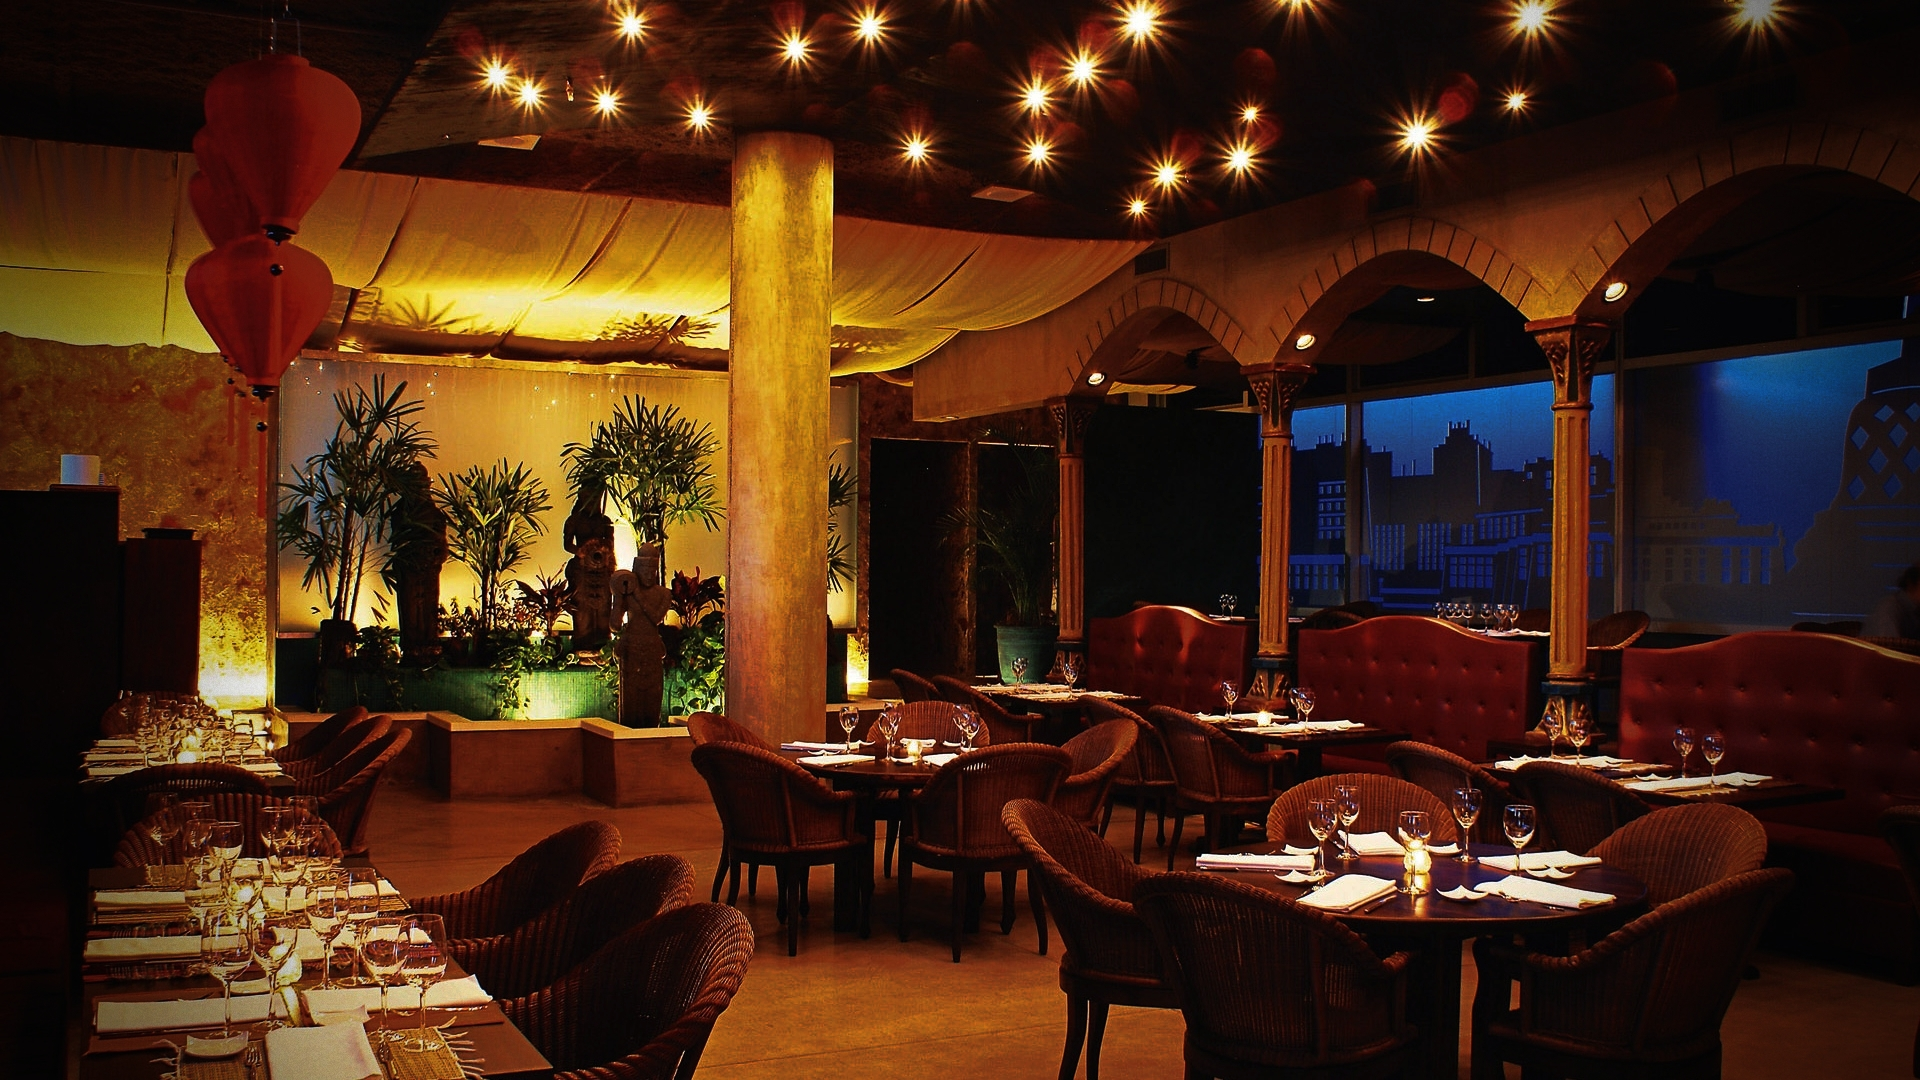
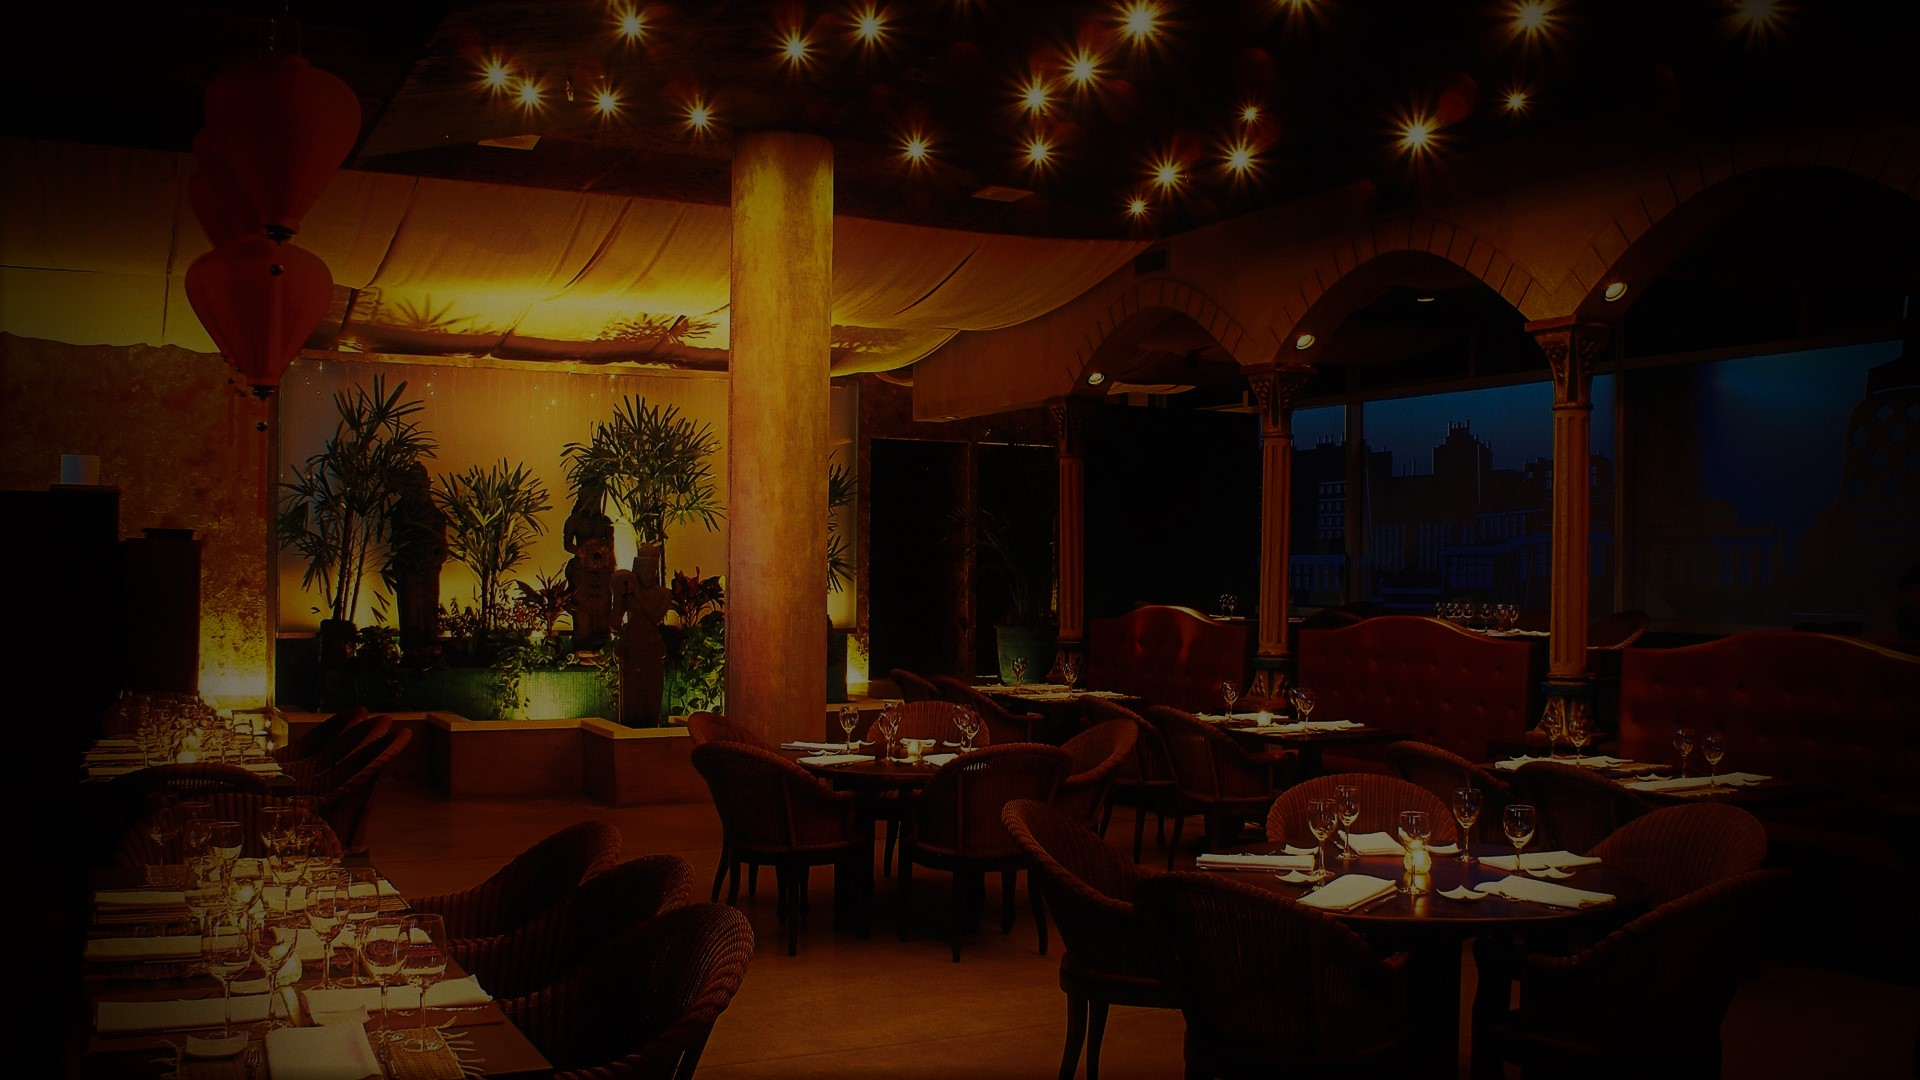
new background image

diff --git a/client/src/components/CreateRecipe.jsx b/client/src/components/CreateRecipe.jsx
@@ -8,9 +8,9 @@ import Styles from "./CreateRecipe.module.css"
 function validate(input){
     let errors= {};
     if (!input.title){
-        errors.title= "Se requiere un titulo para la receta";
+        errors.title= "Title is required";
     } else if (!input.summary){
-        errors.summary = "Se requiere un resumen de la receta";
+        errors.summary = "Summary is required";
     }
     return errors;
 };
@@ -28,6 +28,7 @@ export default function CreateRecipe(){
         spoonacularScore:"",
         healthScore:"",
         steps:[],
+        price:"",
         diets:[]
     });
 
@@ -67,6 +68,7 @@ export default function CreateRecipe(){
             spoonacularScore:"",
             healthScore:"",
             steps:[],
+            price:"",
             diets:[]
         })
         history.push("/home")
@@ -87,6 +89,7 @@ export default function CreateRecipe(){
                     type="text"
                     value= {input.title}
                     name= "title"
+                    required= "true"
                     onChange= {(e)=> handleChange(e)}
                     />
                     {errors.title && (
@@ -101,6 +104,7 @@ export default function CreateRecipe(){
                     type="text"
                     value= {input.summary}
                     name= "summary"
+                    required= "true"
                     onChange= {(e)=> handleChange(e)}
                     />
                      {errors.summary && (
@@ -140,6 +144,28 @@ export default function CreateRecipe(){
                     onChange= {(e)=> handleChange(e)}
                     />
                 </div>
+
+                {/* <div>
+                    <label>Steps: </label>
+                    <input
+                    className={Styles.input}
+                    type="text"
+                    value= {input.steps}
+                    name= "steps"
+                    onChange= {(e)=> handleChange(e)}
+                    />
+                </div> */}
+
+                {/* <div>
+                    <label>Price: </label>
+                    <input
+                    className={Styles.input}
+                    type="number"
+                    value= {input.price}
+                    name= "price"
+                    onChange= {(e)=> handleChange(e)}
+                    />
+                </div> */}
 
                 <select className={Styles.select} onChange={(e)=> handleSelect(e)}>
                     {diets.map((el)=> (

diff --git a/client/src/global.css b/client/src/global.css
@@ -9,7 +9,7 @@
     color: white;
     text-shadow: -1px 0 black, 0 1px black, 1px 0 black, 0 -1px black;
     text-align: center;
-    background-image: url("./restaurant-hd00.jpg");
+    background-image: url("./restaurant-hd2.jpg");
     background-image: no-repeat;
     background-attachment: fixed;
     background-image: center;
@@ -21,7 +21,8 @@
 
   select{
     background-color: rgb(46, 46, 46) ;opacity: 0.6; 
-    font: var(--primary-font);
+    font-family: var(--primary-font);
+    font-size: 15px;
     color: white;
     text-shadow: -1px 0 black, 0 1px black, 1px 0 black, 0 -1px black;
     border-color: black;
@@ -42,7 +43,8 @@
 
   option{
     background-color: rgb(46, 46, 46) ;opacity: 0.6; 
-    font: var(--primary-font);
+    font-family: var(--primary-font);
+    font-size: 15px;
     color: white;
     text-shadow: -1px 0 black, 0 1px black, 1px 0 black, 0 -1px black;
     border-color: black;
@@ -63,7 +65,8 @@
   
   button { 
     background-color: rgb(46, 46, 46) ;opacity: 0.6; 
-    font: var(--primary-font);
+    font-family: var(--primary-font);
+    font-size: 15px;
     color: white;
     text-shadow: -1px 0 black, 0 1px black, 1px 0 black, 0 -1px black;
     border-color: black;
@@ -84,7 +87,8 @@ button:focus{
 
 input {
   background-color: rgb(46, 46, 46) ;opacity: 0.6; 
-  font: var(--primary-font);
+  font-family: var(--primary-font);
+  font-size: 15px;
   color: white;
   text-shadow: -1px 0 black, 0 1px black, 1px 0 black, 0 -1px black;
   border-color: black;

diff --git a/client/src/components/Detail.jsx b/client/src/components/Detail.jsx
@@ -27,16 +27,19 @@ export default function Detail(props){
                     <h3></h3>
                     <p className= {Styles.detail} dangerouslySetInnerHTML={{ __html: MyRecipe[0].summary }} />
                     <h3> <b>Diets: </b>{!MyRecipe[0].createdInDb? MyRecipe[0].diets + " ": MyRecipe[0].diets.map(el=> el.name + " ")}</h3>
-                    <hr/>
+                    <h2/>
                     <h2>STEPS</h2>
                     <ol className= {Styles.detail}>
                     {MyRecipe[0].steps.map(el=><li>{el}</li>)}
                     </ol>
                 </div> 
-                        : <p>Loading...</p>
+                        : 
+                        <div>
+                            <h1>Loading...</h1>
+                            </div>
             }
             <Link to= "/home">
-                <button>Volver</button>
+                <button>Back</button>
             </Link>
         </div>
     )

diff --git a/api/src/routes/index.js b/api/src/routes/index.js
@@ -8,7 +8,7 @@ const {Recipe, Diet} = require('../db');
 
 /* const {API_KEY} = process.env */
 
-const apk= "8427db01b1de4ac9b649794e80976c9d";
+const apk= "5b23f9741e4c42b4b56a00cf331fc75f";
 
 const router = Router();
 
@@ -105,6 +105,7 @@ router.post('/post', async (req, res)=> {
         spoonacularScore,
         healthScore,
         steps,
+        price,
         createdInDb,
         diets
     } = req.body;
@@ -117,6 +118,7 @@ router.post('/post', async (req, res)=> {
         spoonacularScore,
         healthScore,
         steps,
+        price,
         createdInDb
     });
 

diff --git a/client/src/actions/index.js b/client/src/actions/index.js
@@ -39,7 +39,7 @@ export function getRecipeTitle(title){
 }
 
 export function postRecipe(payload){
-    return async function (_dispatch){
+    return async function (){
         const response= await axios.post("http://localhost:3001/post", payload);
         return response;
     }

diff --git a/client/src/components/Detail.module.css b/client/src/components/Detail.module.css
@@ -2,7 +2,7 @@
     /* padding: 10px; */
     
     text-align: left;
-    padding-left: 150px;
-    padding-right: 150px;
+    padding-left: 300px;
+    padding-right: 300px;
     font-size: large;
   }
